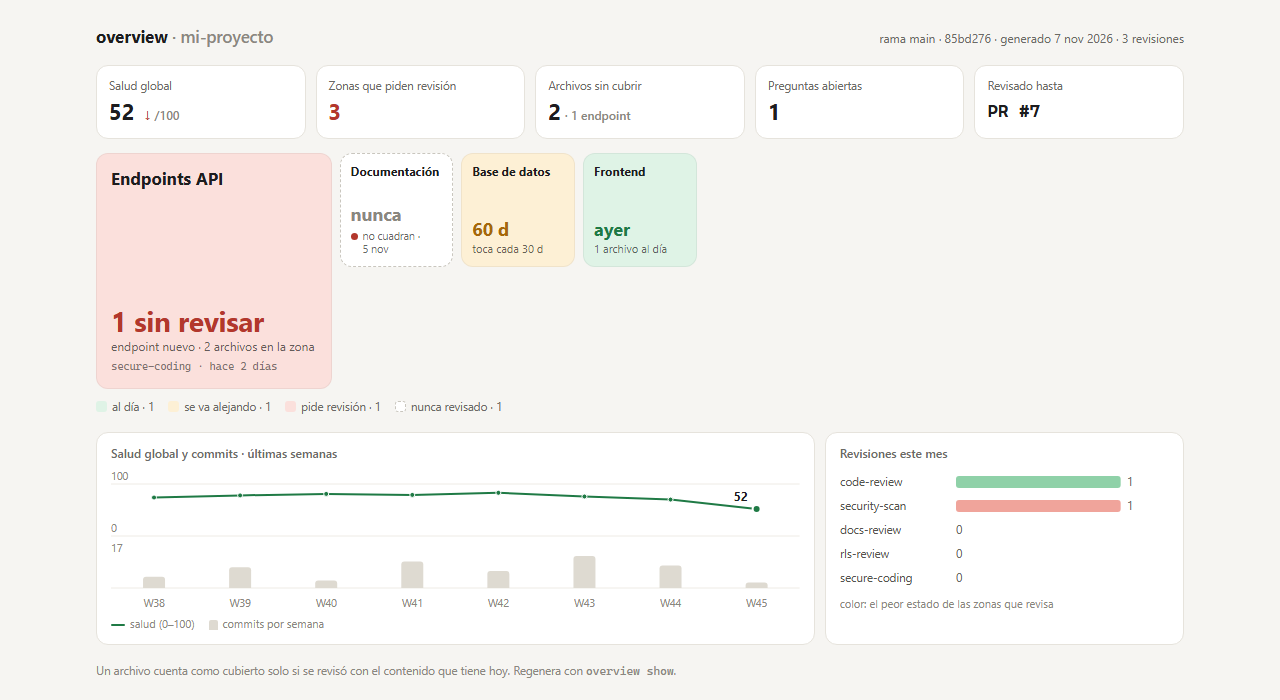
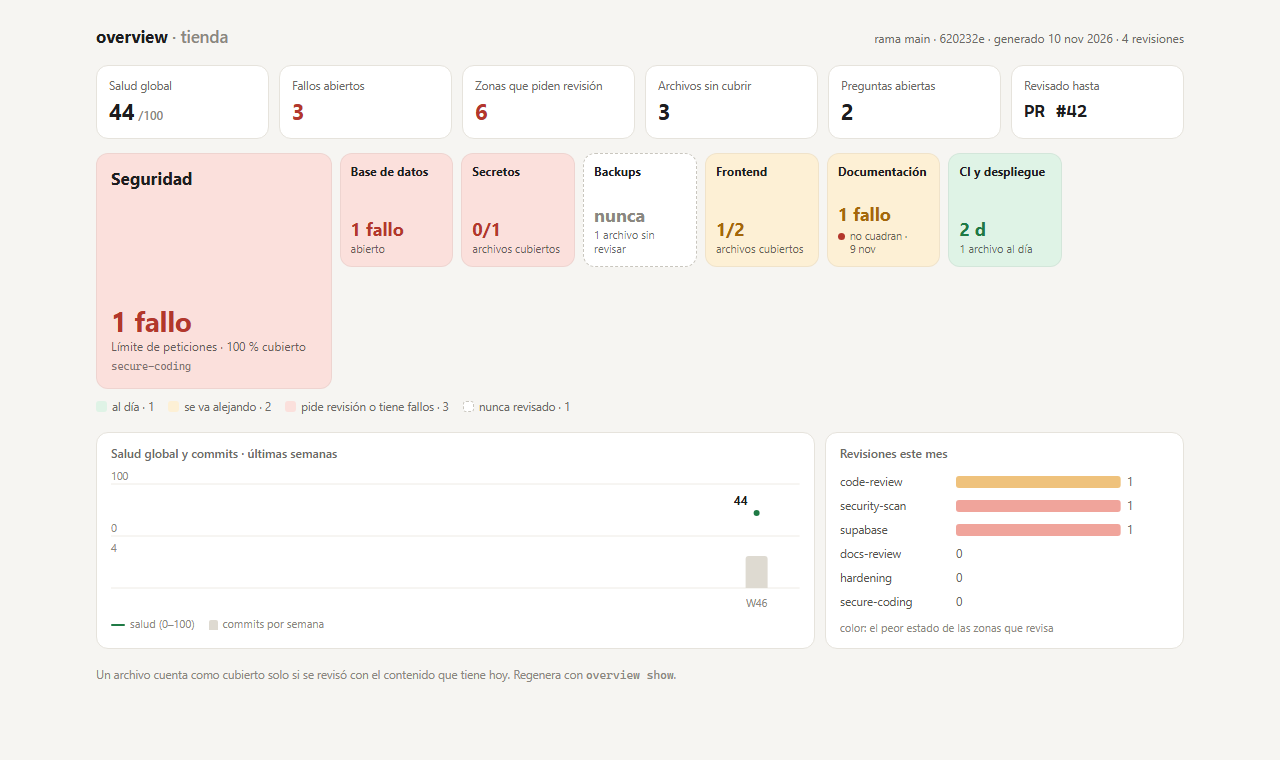
📝 docs(readme): overview con sus cuatro modos, el informe y capturas nuevas del dashboard

diff --git a/skills/overview/informe.html b/skills/overview/informe.html
@@ -35,8 +35,8 @@ p{margin:0}
 .head{display:grid;grid-template-columns:auto 1fr;gap:22px;align-items:center}
 .gauge{width:104px;height:104px;position:relative}
 .gauge svg{width:100%;height:100%;transform:rotate(-90deg)}
-.gauge b{position:absolute;inset:0;display:grid;place-items:center;font:700 32px var(--sans)}
-.gauge small{position:absolute;bottom:16px;left:0;right:0;text-align:center;font:11px var(--mono);color:var(--muted)}
+.gauge b{position:absolute;inset:0;display:grid;place-items:center;font:700 32px var(--sans);padding-bottom:12px}
+.gauge small{position:absolute;bottom:26px;left:0;right:0;text-align:center;font:10px var(--mono);color:var(--muted)}
 .head h1{font-size:30px;line-height:1.15;margin-top:4px}
 .lede{font:400 19px/1.6 var(--serif);display:grid;gap:14px}
 .lede em{font-style:italic}

diff --git a/README.md b/README.md
@@ -339,29 +339,47 @@ Al cerrar una sesión larga, hace una retrospectiva: busca qué del entorno del 
 comprobaciones, estándares, ficheros de instrucciones, herramientas) hay que cambiar para que la
 siguiente vaya mejor. El resultado son cambios concretos, no una charla.
 
-### `overview` — qué está revisado y qué no
+### `overview` — qué está revisado, qué está mal y qué hacer primero
 
-Tiene tres modos:
+Te dice el estado del proyecto de un vistazo: qué zonas (seguridad, base de datos, frontend, docs…) están revisadas **con el contenido que tienen hoy**, qué fallos hay abiertos y qué skill lanzar para cada cosa.
 
-- **`/overview start`**: al empezar un proyecto, te pregunta por rondas lo que conviene decidir pronto (multitenant, sesiones, accesos, secretos, backups…). Antes de preguntar, mira lo que ya se ve en el código.
-- **Registro automático**: cada vez que lanzas una skill de revisión (`code-review`, `security-scan`, `docs-review`…), apunta qué archivos se revisaron y con qué contenido. Si un archivo cambia después, ya no cuenta como revisado. El registro va en git, en `docs/overview/`, así que funciona con ramas en paralelo y merges.
-- **`/overview show`**: abre un dashboard que te dice qué zona toca revisar y con qué skill. Es un HTML local que no necesita servidor.
+| Modo | Para qué |
+|---|---|
+| `/overview start` | Al empezar un proyecto: te pregunta por rondas lo que conviene decidir pronto (multitenant, sesiones, accesos, secretos, backups…) y siembra las zonas. Antes de preguntar, mira lo que ya se ve en el código. |
+| `/overview scan` | Qué zonas piden revisión ahora, con los fallos primero y la skill que toca para cada una. |
+| `/overview show` | Abre el dashboard: un HTML local, sin servidor. |
+| `/overview informe` | Te cuenta lo que está mal como te lo contaría un amigo: qué ha visto, qué pasa si no lo arreglas y para qué sirve arreglarlo. |
 
-![Dashboard de overview: salud global, zonas por color y revisiones del mes](docs/img/readme/readme-21-overview.png)
+**El registro es automático.** Cada vez que lanzas una skill de revisión (`code-review`, `security-scan`, `secure-coding`…), apunta qué archivos se revisaron y con qué contenido. Si un archivo cambia después, deja de contar como revisado. El registro va en git, en `docs/overview/`, así que funciona con ramas en paralelo y merges.
 
-Cada cuadrado es una zona del proyecto:
+#### El dashboard
+
+![Dashboard de overview: salud global, fallos abiertos y una zona por cuadrado](docs/img/readme/readme-21-overview.png)
+
+Cada cuadrado es una zona; las más urgentes salen más grandes.
 
 - **Verde**: revisada con el contenido de hoy y sin fallos abiertos.
 - **Ámbar**: se va quedando atrás, o los docs no cuadran con el código.
-- **Rojo**: una comprobación ha fallado (por ejemplo, no hay rate limiting), o hay un endpoint, una tabla o un archivo de autenticación sin revisar.
+- **Rojo**: una comprobación ha fallado (por ejemplo, no hay límite de peticiones), o hay un endpoint, una tabla o un archivo de autenticación sin revisar.
+- **Nunca**: nadie la ha revisado.
 
-Que una zona esté revisada no basta para que salga en verde: si la revisión encontró un fallo, el cuadrado dice «N fallos» hasta que la comprobación pase.
+Revisada no quiere decir que esté bien: si la revisión encontró un fallo, el cuadrado dice «N fallos» hasta que la comprobación pase. Volver a revisar los archivos no lo borra.
 
-Al pulsar un cuadrado se abre el detalle de la zona: primero los fallos abiertos; después, los archivos sin cubrir, la skill recomendada y la última verificación de un agente que comprueba si los docs cuadran con el código.
+Al pulsar un cuadrado se abre el detalle de la zona: primero los fallos abiertos, luego la skill recomendada, los archivos sin cubrir, la última verificación de los docs y el historial de revisiones.
 
-![Panel de detalle de una zona: archivos sin cubrir, skill recomendada y verificación de los docs](docs/img/readme/readme-22-overview-panel.png)
+![Panel de detalle de una zona: fallos abiertos, skill recomendada, comprobaciones e historial](docs/img/readme/readme-22-overview-panel.png)
 
-Al abrir sesión, si alguna zona está en rojo, sale una sola línea: `overview: 2 zonas en rojo (api-endpoints, database) — /overview scan`.
+#### El informe
+
+Cuando quieres saber qué está mal sin leer un dashboard, pide el informe. Es una página que se lee como una carta: el veredicto en una frase, y cada problema contado en tres tiempos (**lo que vi → qué pasa si… → para qué sirve arreglarlo**) con la skill que lo arregla. Termina con «si yo fuera tú, esta semana haría esto». Lo que no se comprobó va aparte, en «donde no he mirado», nunca en «bien».
+
+![Informe de overview: veredicto, recuento y un problema contado con su consecuencia](docs/img/readme/readme-23-overview-informe.png)
+
+Se guarda en `.rsc/overview/informe.html`; si tu asistente puede publicar artifacts, además te da un enlace.
+
+#### Al abrir sesión
+
+Si alguna zona está en rojo, sale una sola línea: `overview: 2 zonas en rojo (security, database) — /overview scan`.
 
 ### Otras de la base
 
